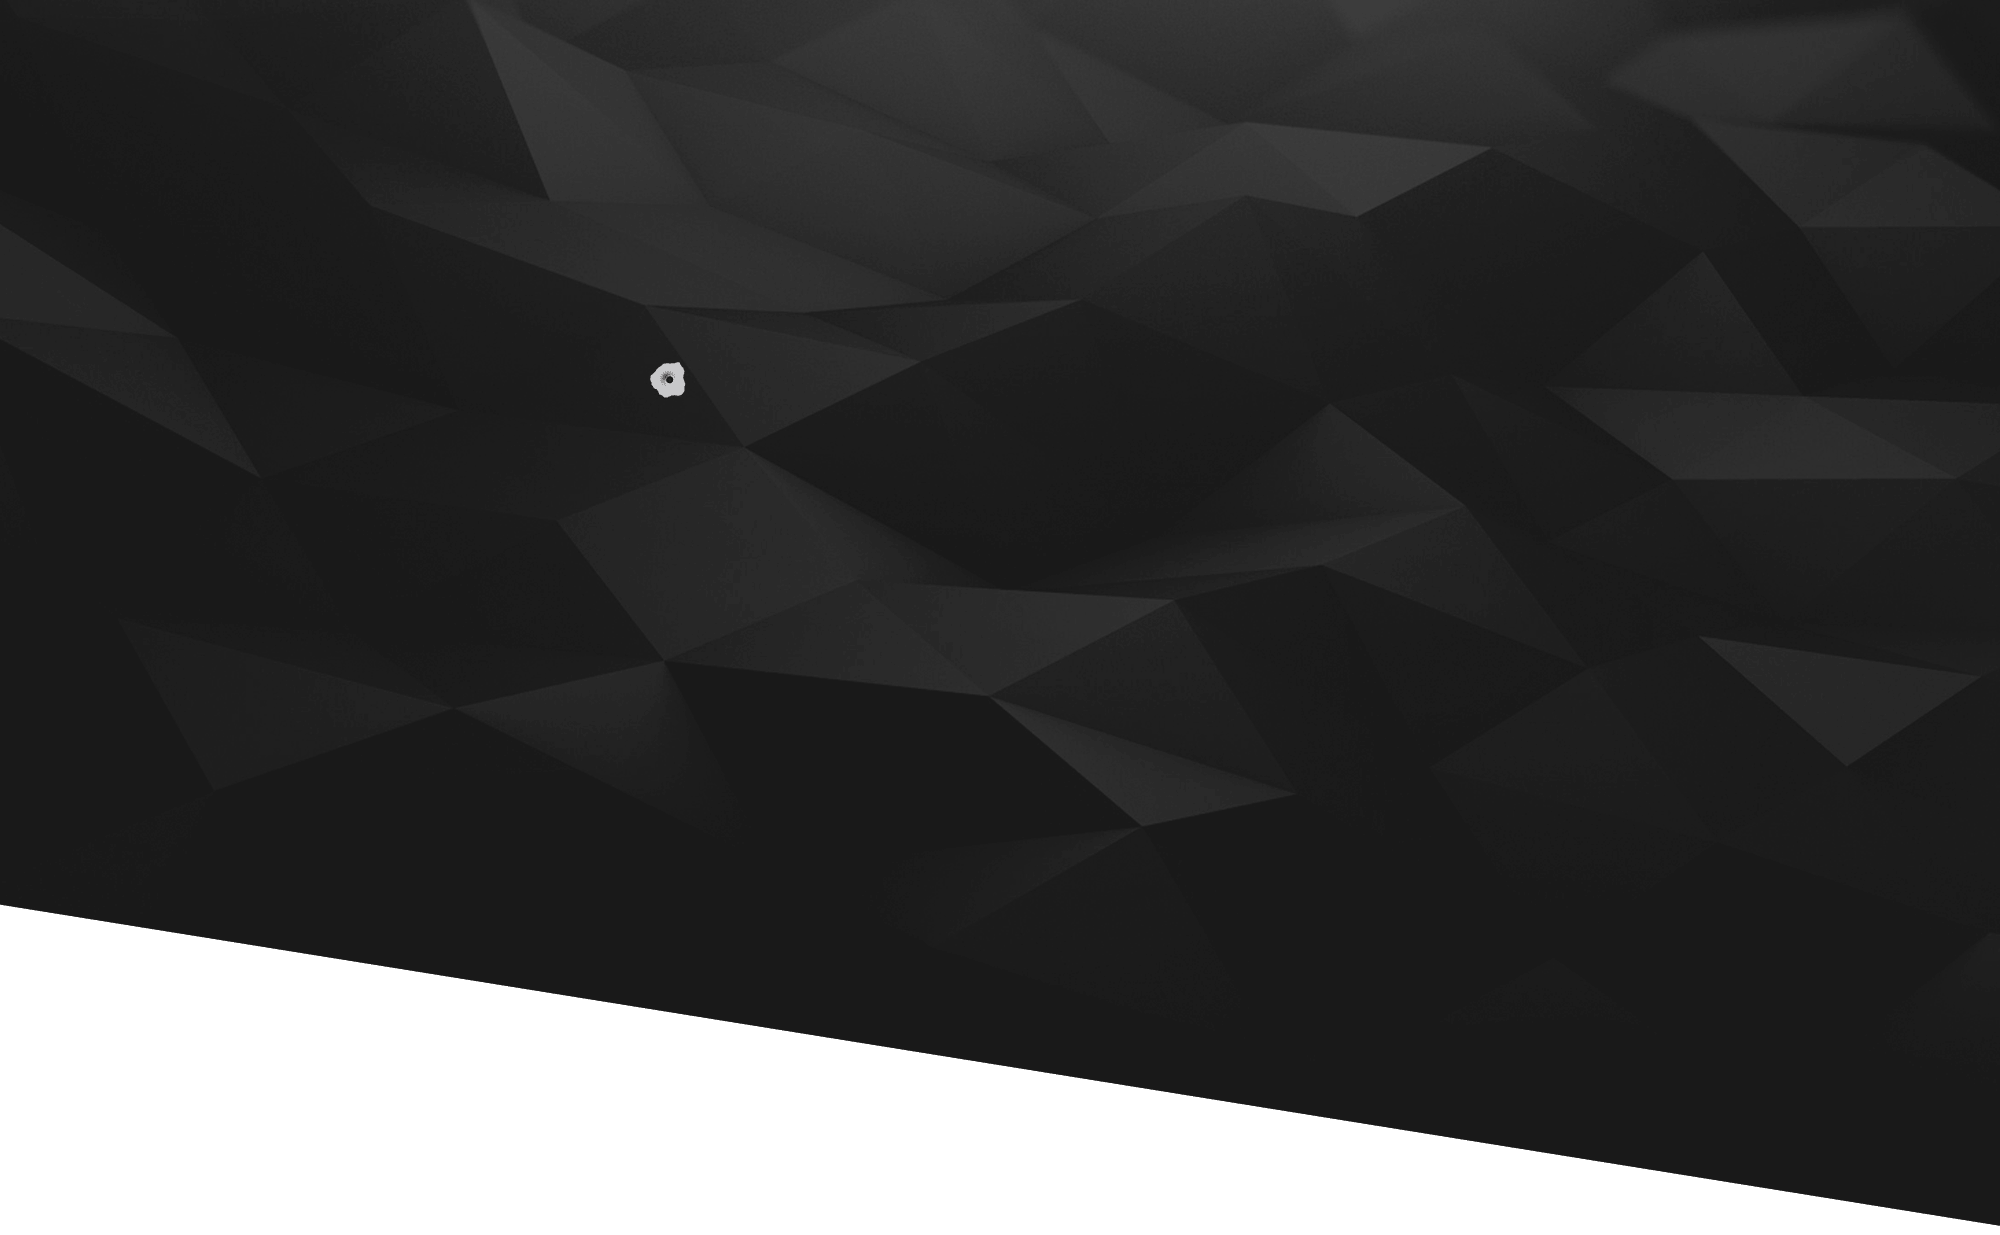
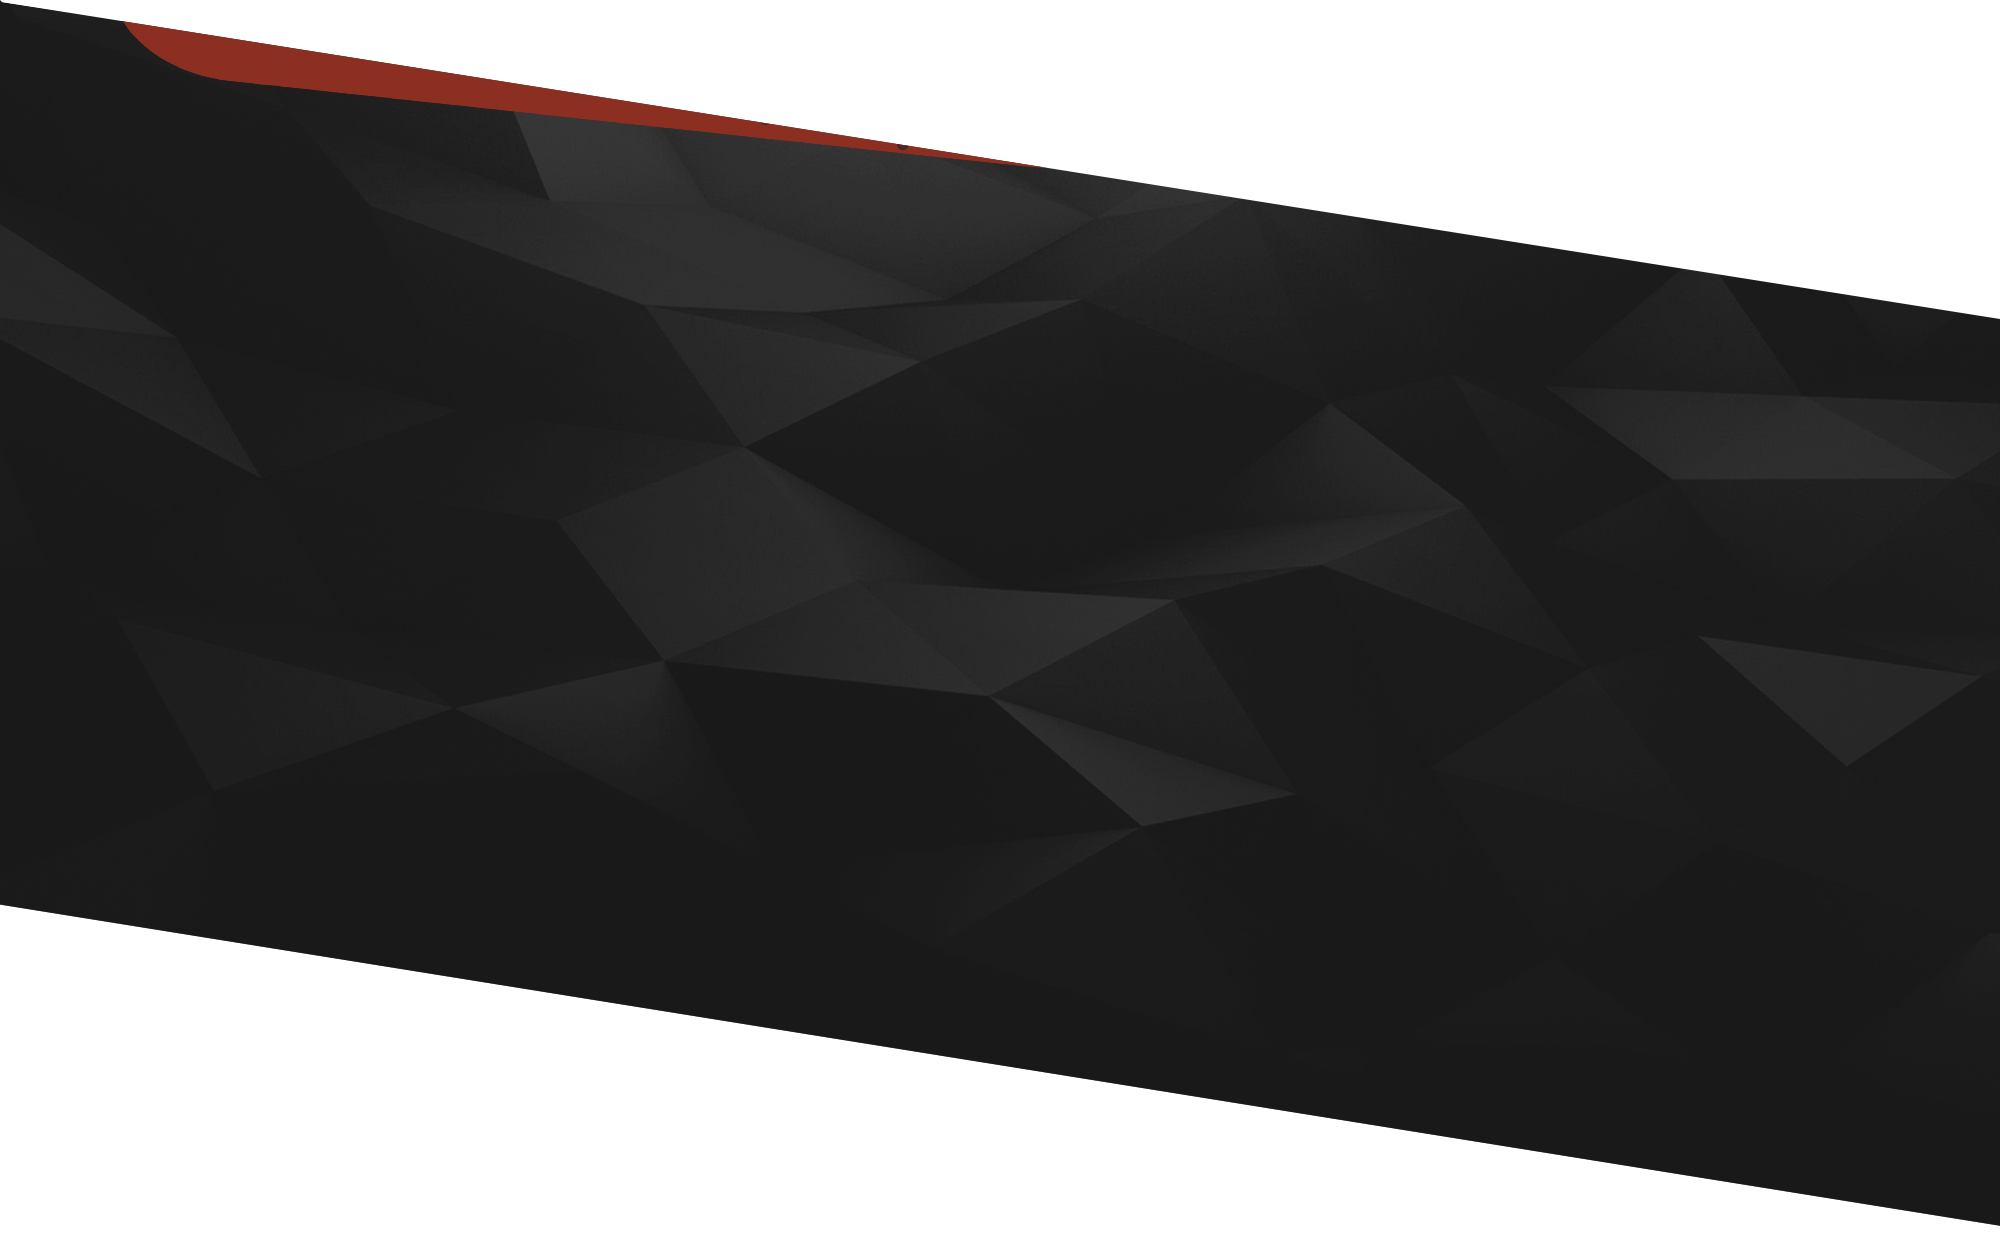
Добавила задник для слайдера

Changed region(s): [[0.0, 0.0, 1.0, 0.2769], [0.31, 0.2769, 0.341, 0.3385]]

diff --git a/Firetag_app/static/style.css b/Firetag_app/static/style.css
@@ -254,29 +254,30 @@ input {
 .fireLazertag {
 	position: relative;
 	box-sizing: border-box;
+	z-index: -1;
 }
 
 .fireLazertag_bg {
-	background-image: url(img/laser-bg.png);
-	background-size: auto 100%;
+	/*background-image: url(img/laser-bg.png);
+	background-size: auto 100%;*/
 	background-position: center;
 	height: 52vw;
 	min-height: 519px;
 	margin: 0 0 -10vw 0px;
 	position: relative;
-	z-index: 2;
 }
 
 .fireLazertag_content {
 	width: 100%;
 	position: absolute;
-	z-index: 5;
+	z-index: 1;
 }
 
 .about {
 	margin: 0;
 	position: relative;
 	box-sizing: content-box;
+	z-index: 3;
 }
 
 .about_bg {
@@ -286,6 +287,7 @@ input {
 	height: 61.8vw;
 	min-height: 613px;
 	margin: -20.3vw 0 -10vw 0px;
+	z-index: 5;
 }
 
 .about_bg>img {
@@ -297,7 +299,7 @@ input {
 	width: 100%;
 	height: 40vw;
 	position: absolute;
-	z-index: 3;
+	z-index: 7;
 }
 
 .about_tit {
@@ -1250,7 +1252,7 @@ ul {
     position: absolute;
     top: 50%;  
     left: 11%; 
-    z-index: 2;                  
+    z-index: 10;                  
     transform: translate(0, -50%); 
     margin-left: 10%;
     color: #fff;
@@ -1261,7 +1263,7 @@ ul {
     position: absolute;
     top: 50%;  
     right: 11%; 
-    z-index: 2;                  
+    z-index: 10;                  
     transform: translate(0, -50%); 
     margin-right: 10%;
     color: #fff;
@@ -1279,10 +1281,10 @@ ul {
 .indicator{ 
     width: 100%;
     position: absolute;
-    top: 80%;
+    top: 70%;
     left: 50%;
     transform: translate(-50%, 0); 
-    z-index: 1;
+    z-index: 10;
     margin: 0 auto;
     padding-left: 48%;
 }
